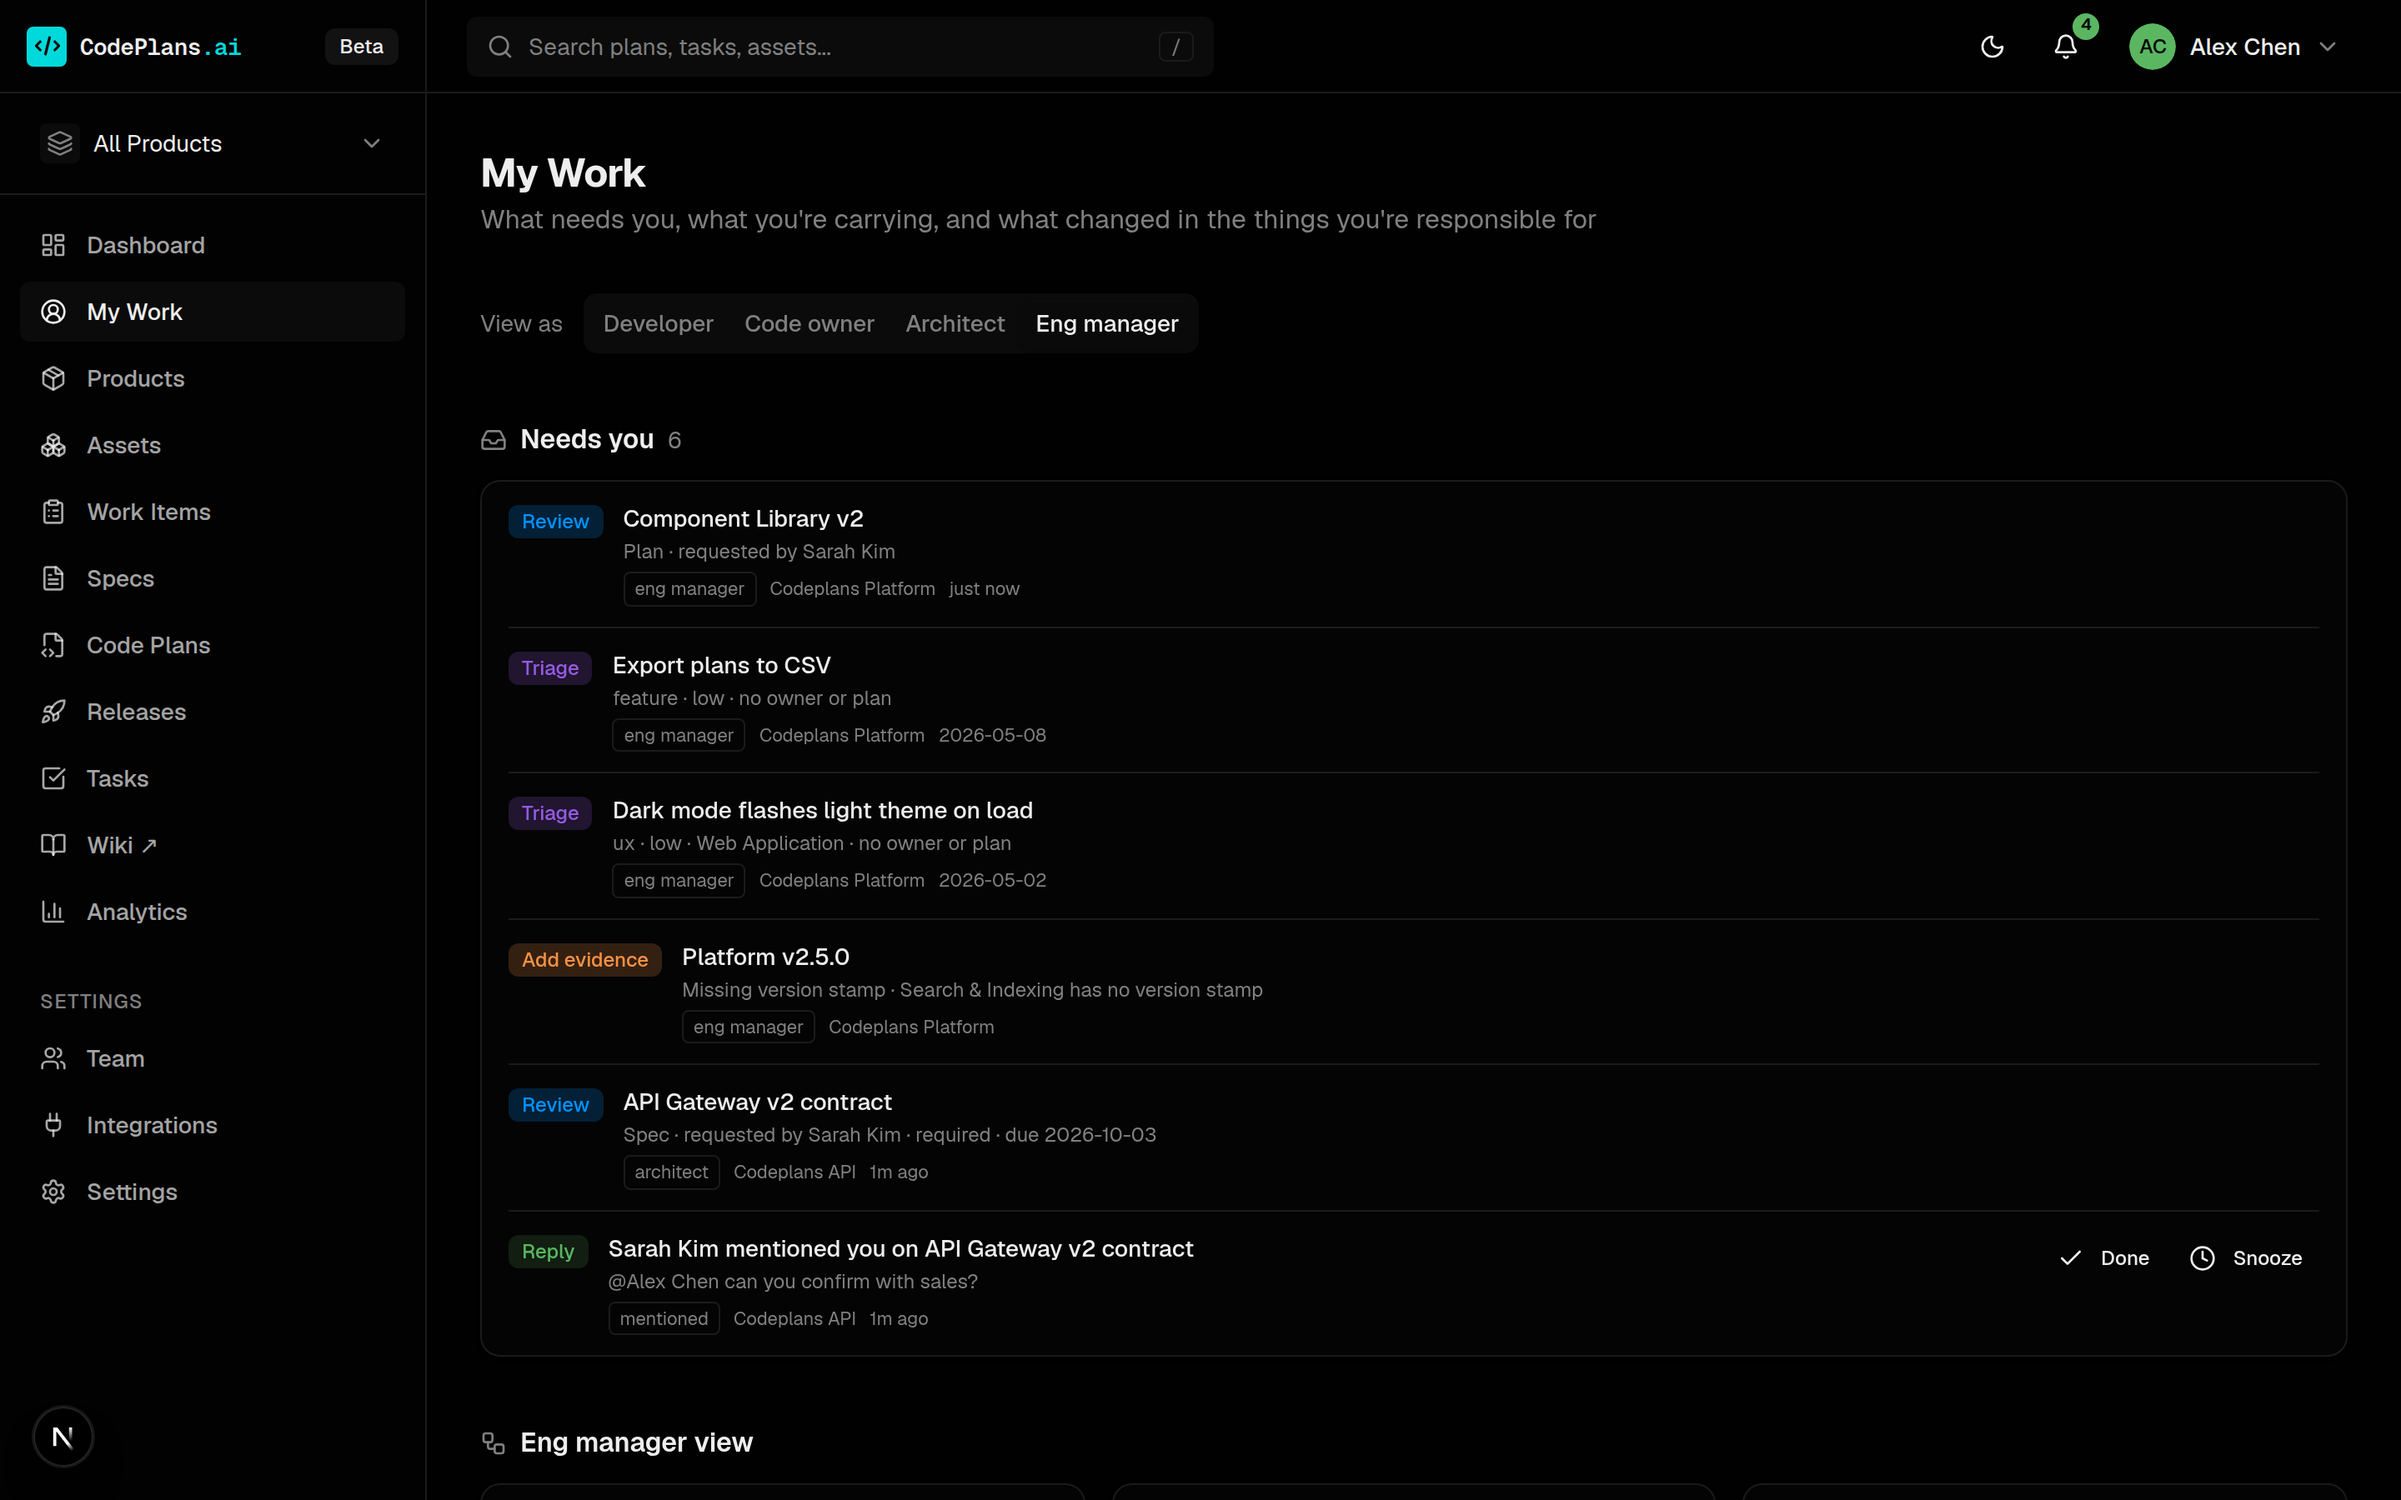
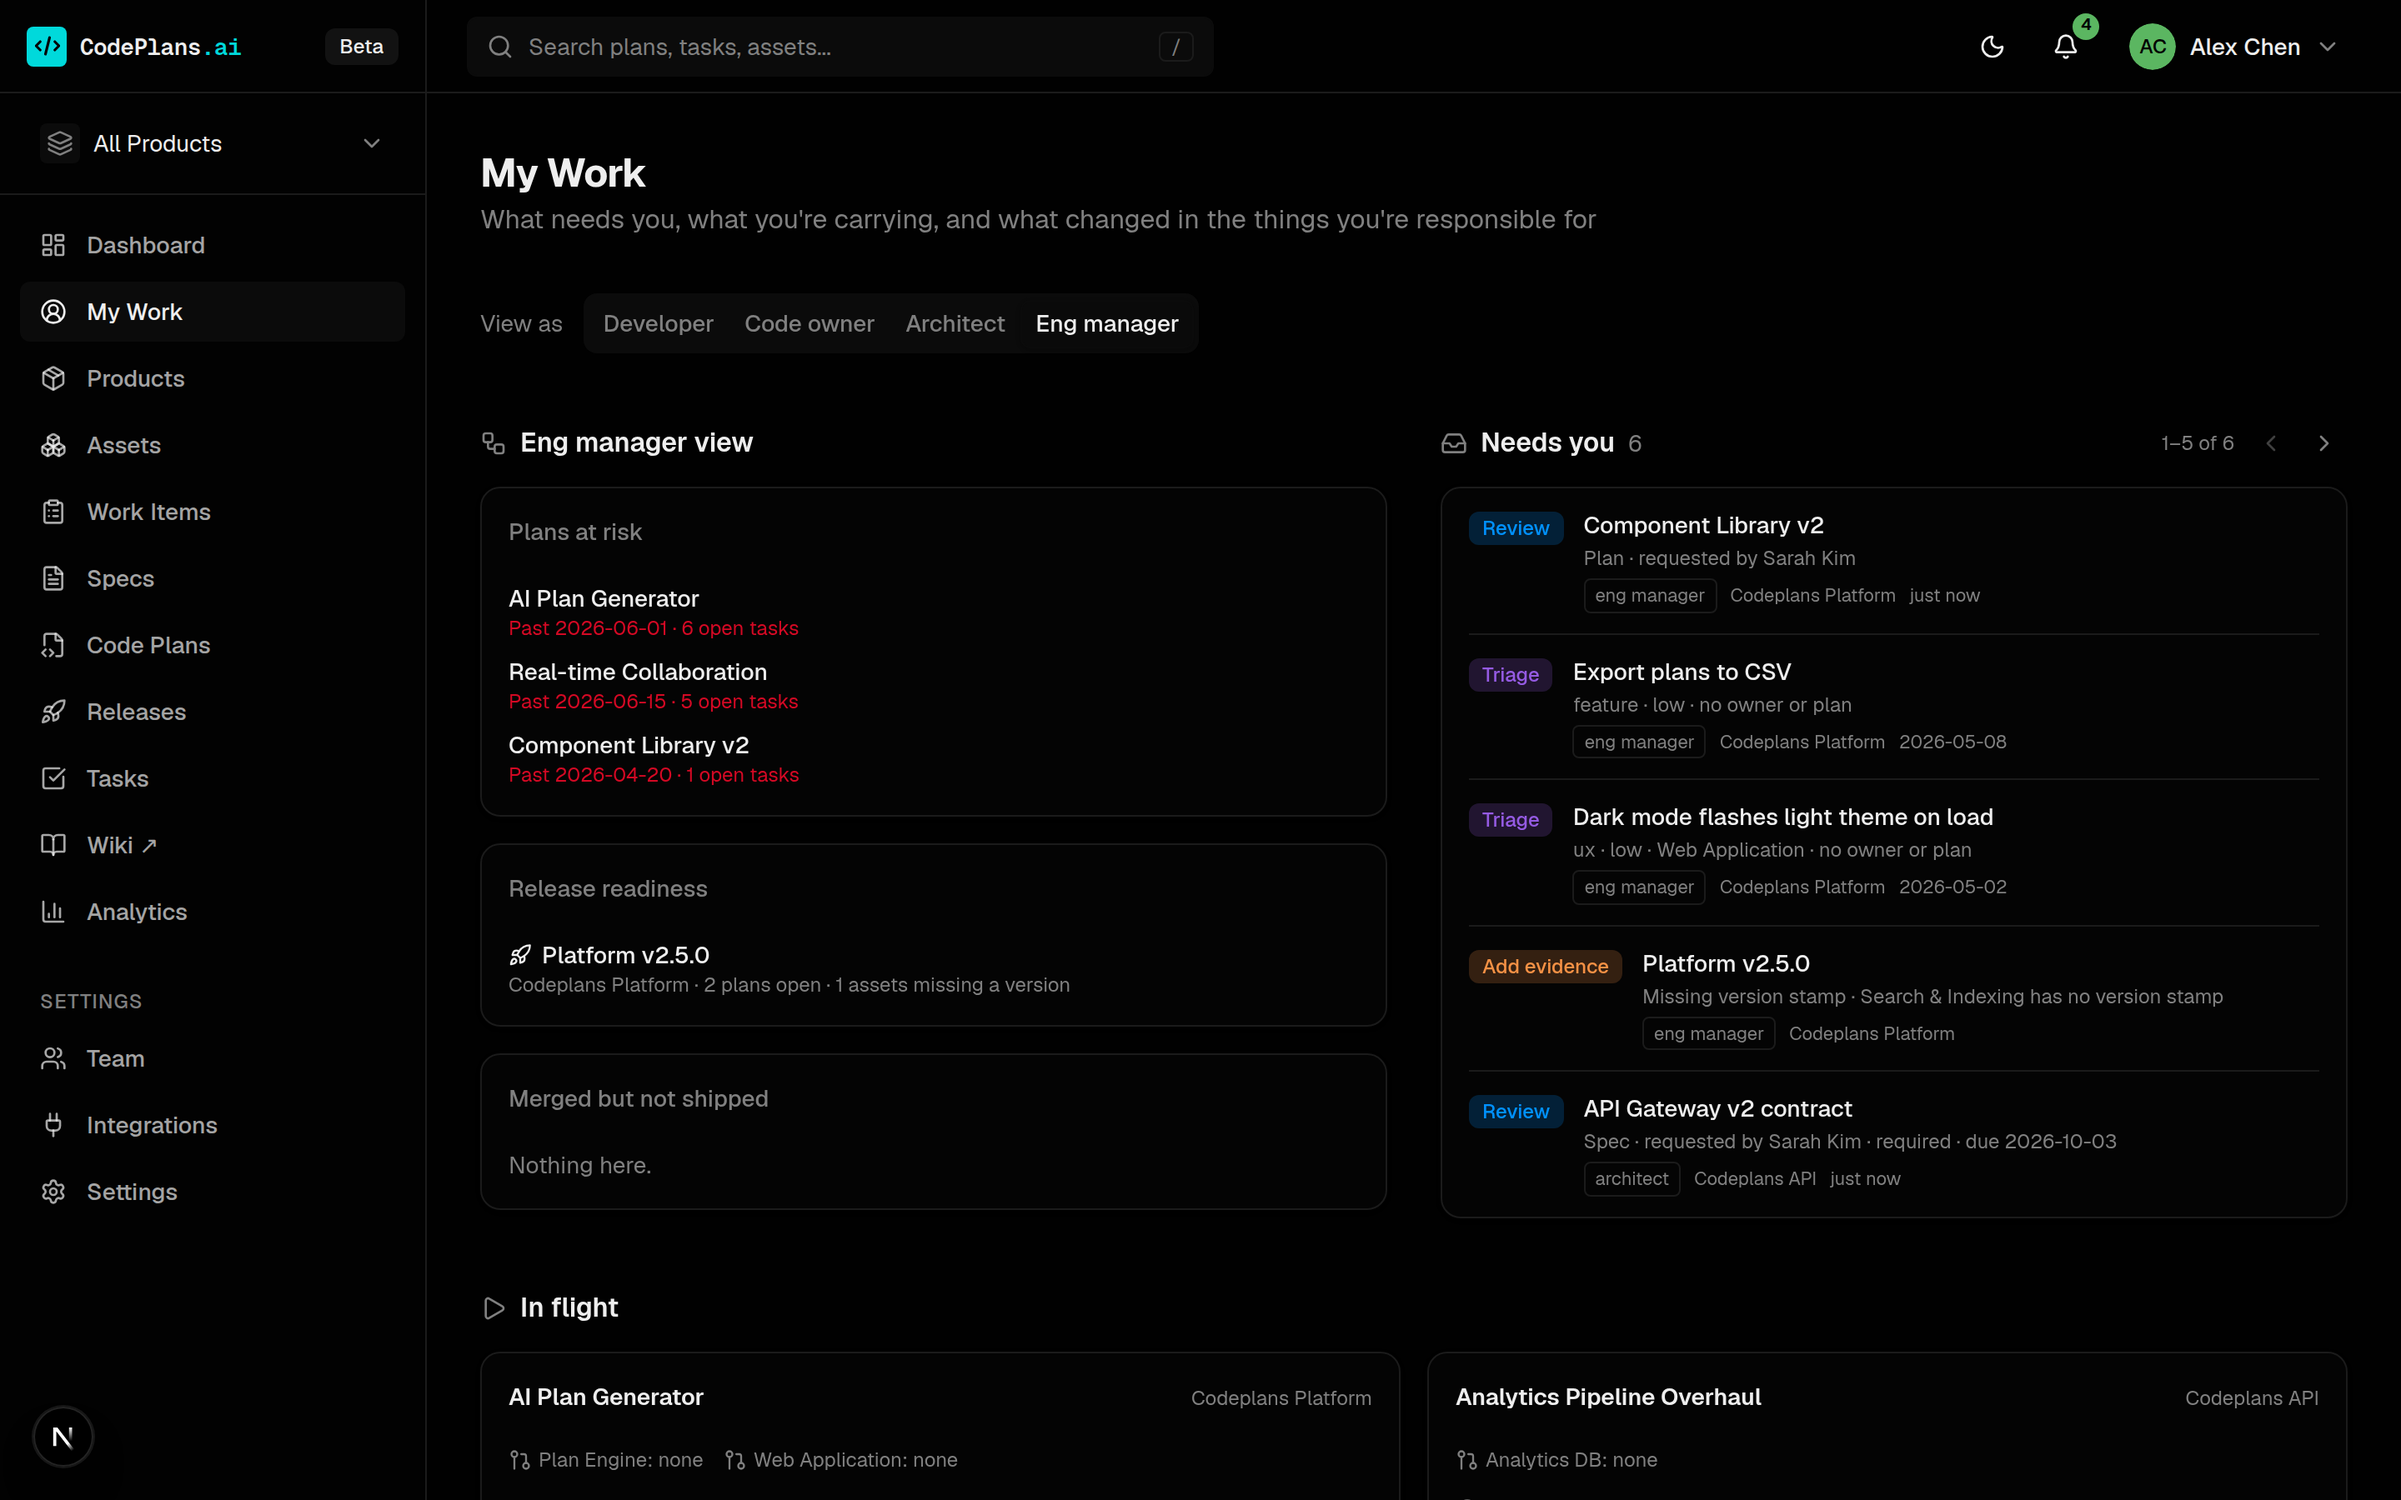
Show Needs you beside the lens panels, five at a time
On My Work, Needs you moves into a right-hand column next to the lens's
panels (e.g. Assets you own), paginated five items per page with a range
and previous/next buttons. With no lens panels (the Developer lens) it
spans the full width, and on narrow screens it comes first. Refreshes the
two My Work screenshots on the docs site.

Claude-Session: https://claude.ai/code/session_01Lvu9Kf21ASjeR2Dy3VDjjZ

diff --git a/app/(dashboard)/my-work/my-work-client.tsx b/app/(dashboard)/my-work/my-work-client.tsx
@@ -1,6 +1,6 @@
 'use client'
 
-import { useMemo, useState, useTransition } from 'react'
+import { useEffect, useMemo, useState, useTransition } from 'react'
 import Link from 'next/link'
 import { useRouter } from 'next/navigation'
 import { Card, CardContent, CardHeader, CardTitle } from '@/components/ui/card'
@@ -9,7 +9,7 @@ import { Button } from '@/components/ui/button'
 import { Progress } from '@/components/ui/progress'
 import { Tabs, TabsList, TabsTrigger } from '@/components/ui/tabs'
 import { DropdownMenu, DropdownMenuContent, DropdownMenuItem, DropdownMenuTrigger } from '@/components/ui/dropdown-menu'
-import { AlertTriangle, Box, Check, Circle, Clock, Eye, FileText, GitPullRequest, Inbox, Play, Rocket, Workflow } from 'lucide-react'
+import { AlertTriangle, Box, Check, ChevronLeft, ChevronRight, Circle, Clock, Eye, FileText, GitPullRequest, Inbox, Play, Rocket, Workflow } from 'lucide-react'
 import { cn, formatDateShort } from '@/lib/utils'
 import { timeAgo } from '@/components/comments-panel'
 import { markNotificationsDoneAction, snoozeNotificationsAction } from '../collab-actions'
@@ -73,7 +73,7 @@ function ItemRow({ item, compact }: { item: InboxItem; compact?: boolean }) {
 function Section({ icon: Icon, title, count, children, action }: { icon: typeof Inbox; title: string; count?: number; children: React.ReactNode; action?: React.ReactNode }) {
   return (
     <section className="space-y-3">
-      <div className="flex items-center justify-between gap-2">
+      <div className="flex min-h-7 items-center justify-between gap-2">
         <h2 className="flex items-center gap-2 text-base font-semibold"><Icon className="h-4 w-4 text-muted-foreground" />{title}{count !== undefined && <span className="text-sm font-normal text-muted-foreground">{count}</span>}</h2>
         {action}
       </div>
@@ -97,7 +97,7 @@ function PanelCard({ title, children, empty }: { title: string; children: React.
 
 function LensPanels({ lens, panels }: { lens: Lens; panels: MyWork['panels'] }) {
   if (lens === 'code_owner') return (
-    <div className="grid gap-4 lg:grid-cols-2">
+    <div className="grid gap-4">
       <PanelCard title={`Assets you own (${panels.ownedAssets.length})`} empty={!panels.ownedAssets.length}>
         <ul className="divide-y divide-border">{panels.ownedAssets.map((a) => (
           <li key={a.id} className="flex items-center justify-between gap-2 py-2 text-sm">
@@ -115,7 +115,7 @@ function LensPanels({ lens, panels }: { lens: Lens; panels: MyWork['panels'] }) 
     </div>
   )
   if (lens === 'architect') return (
-    <div className="grid gap-4 lg:grid-cols-3">
+    <div className="grid gap-4">
       <PanelCard title="Reviews in your area" empty={!panels.reviewQueue.length}>
         <ul className="space-y-2">{panels.reviewQueue.map((r) => (
           <li key={r.id} className="text-sm">
@@ -137,7 +137,7 @@ function LensPanels({ lens, panels }: { lens: Lens; panels: MyWork['panels'] }) 
     </div>
   )
   if (lens === 'eng_manager') return (
-    <div className="grid gap-4 lg:grid-cols-3">
+    <div className="grid gap-4">
       <PanelCard title="Plans at risk" empty={!panels.plansAtRisk.length}>
         <ul className="space-y-2">{panels.plansAtRisk.map((p) => (
           <li key={p.id} className="text-sm">
@@ -164,6 +164,33 @@ function LensPanels({ lens, panels }: { lens: Lens; panels: MyWork['panels'] }) 
   return null
 }
 
+const NEEDS_YOU_PAGE = 5
+
+/** Needs you, five at a time. */
+function NeedsYou({ items }: { items: InboxItem[] }) {
+  const [page, setPage] = useState(0)
+  const pages = Math.max(1, Math.ceil(items.length / NEEDS_YOU_PAGE))
+  // Acting on an item removes it; don't strand the reader on an empty last page.
+  useEffect(() => { if (page > pages - 1) setPage(pages - 1) }, [page, pages])
+  const current = Math.min(page, pages - 1)
+  const shown = items.slice(current * NEEDS_YOU_PAGE, (current + 1) * NEEDS_YOU_PAGE)
+  const first = current * NEEDS_YOU_PAGE + 1
+  const pager = items.length > NEEDS_YOU_PAGE ? (
+    <div className="flex items-center gap-1 text-xs text-muted-foreground" aria-label="Needs you pages">
+      <span className="mr-1" aria-live="polite">{first}–{first + shown.length - 1} of {items.length}</span>
+      <Button variant="ghost" size="icon" className="h-7 w-7" aria-label="Previous page" disabled={current === 0} onClick={() => setPage(current - 1)}><ChevronLeft className="h-4 w-4" /></Button>
+      <Button variant="ghost" size="icon" className="h-7 w-7" aria-label="Next page" disabled={current >= pages - 1} onClick={() => setPage(current + 1)}><ChevronRight className="h-4 w-4" /></Button>
+    </div>
+  ) : undefined
+  return (
+    <Section icon={Inbox} title="Needs you" count={items.length} action={pager}>
+      {items.length === 0 ? <Empty>Nothing needs you right now.</Empty> : (
+        <Card className="bg-card border-border py-0"><CardContent className="px-4"><ul className="divide-y divide-border">{shown.map((i) => <ItemRow key={i.key} item={i} />)}</ul></CardContent></Card>
+      )}
+    </Section>
+  )
+}
+
 export function MyWorkClient({ work, initialLens }: { work: MyWork; initialLens: Lens }) {
   const [lens, setLens] = useState<Lens>(initialLens)
   const [showAllWatching, setShowAllWatching] = useState(false)
@@ -186,17 +213,17 @@ export function MyWorkClient({ work, initialLens }: { work: MyWork; initialLens:
         </div>
       )}
 
-      <Section icon={Inbox} title="Needs you" count={needsYou.length}>
-        {needsYou.length === 0 ? <Empty>Nothing needs you right now.</Empty> : (
-          <Card className="bg-card border-border py-0"><CardContent className="px-4"><ul className="divide-y divide-border">{needsYou.map((i) => <ItemRow key={i.key} item={i} />)}</ul></CardContent></Card>
+      {/* The lens's panels on the left, what needs you beside them. Needs you comes first on narrow screens. */}
+      <div className={cn('grid gap-8', lens !== 'developer' && 'lg:grid-cols-2 lg:items-start')}>
+        <div className="lg:order-2"><NeedsYou key={lens} items={needsYou} /></div>
+        {lens !== 'developer' && (
+          <div className="lg:order-1">
+            <Section icon={Workflow} title={`${LENS_LABELS[lens]} view`}>
+              <LensPanels lens={lens} panels={work.panels} />
+            </Section>
+          </div>
         )}
-      </Section>
-
-      {lens !== 'developer' && (
-        <Section icon={Workflow} title={`${LENS_LABELS[lens]} view`}>
-          <LensPanels lens={lens} panels={work.panels} />
-        </Section>
-      )}
+      </div>
 
       <Section icon={Play} title="In flight">
         {taskGroups.length === 0 && plans.length === 0 && specs.length === 0 && <Empty>No open tasks, plans or draft specs of yours.</Empty>}

diff --git a/docs/guides/my-work.md b/docs/guides/my-work.md
@@ -8,7 +8,9 @@ assets you own, and the tasks, plans and specs that are yours.
 ## Three bands
 
 **Needs you** lists things blocked on your action. Each item starts with a verb
-and shows why it is yours (for example *code owner · API Gateway*).
+and shows why it is yours (for example *code owner · API Gateway*). It shows five
+items at a time, beside your lens's panels; page through the rest with the
+arrows.
 
 | Item | When it appears |
 |---|---|
